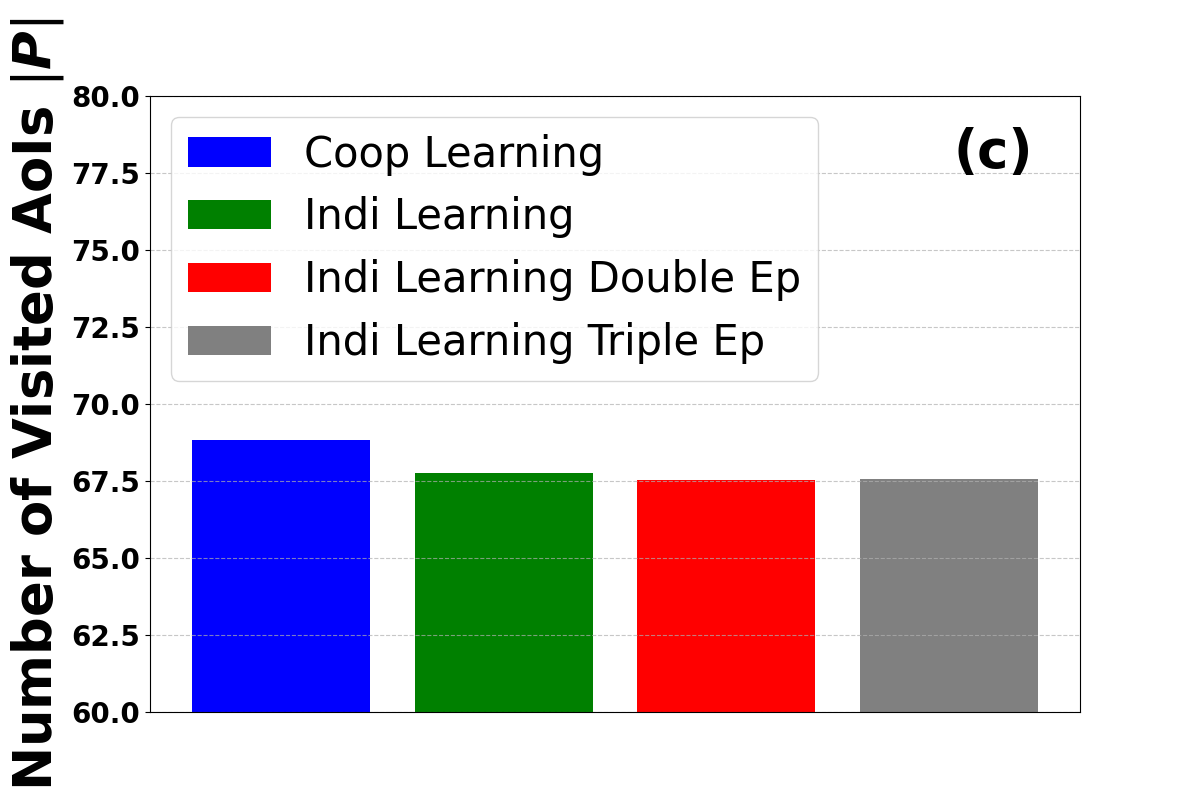
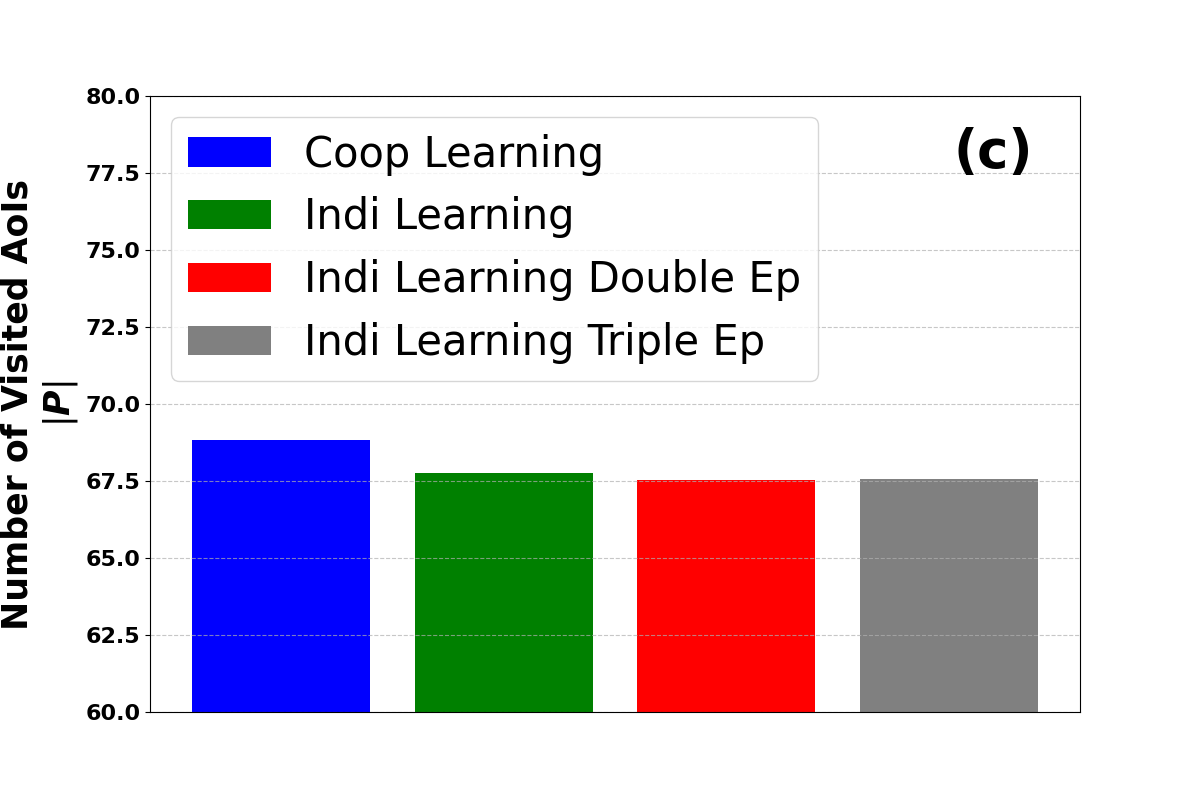
Update Plots

Changed region(s): [[0.0, 0.0, 0.1233, 1.0]]

diff --git a/plot_creation/algorithm comparison.py b/plot_creation/algorithm comparison.py
@@ -53,7 +53,7 @@ def plot_graphs(folder_for_pure_learning= 'plots/pure_learning'):
 	plt.grid(axis='y', linestyle='--', alpha=0.7)
 
 	# Set the y-tick parameters
-	plt.yticks(fontsize=30, fontweight='bold')
+	plt.yticks(fontsize=20, fontweight='bold')
 
 	# Remove the x-axis ticks and labels for a clean look
 	plt.xticks([])
@@ -65,7 +65,7 @@ def plot_graphs(folder_for_pure_learning= 'plots/pure_learning'):
 	plt.grid(axis='y', linestyle='--', alpha=1)
 
 	# Set the y-axis label with appropriate formatting
-	plt.ylabel(r"UAV's Collected Data $\boldsymbol{B}_\boldsymbol{P}$ [MBits]", fontsize=30, fontweight='bold')
+	plt.ylabel(r"UAV's Collected Data $\boldsymbol{B}_\boldsymbol{P}$" '\n' r"[MBits]", fontsize=30, fontweight='bold')
  
 	# Add annotation "(a)" on the top-right of the plot
 	plt.text(0.65, 0.95, '(b)', transform=plt.gca().transAxes, fontsize=38, fontweight='bold', ha='right', va='top')
@@ -121,7 +121,7 @@ def plot_graphs(folder_for_pure_learning= 'plots/pure_learning'):
 	plt.grid(axis='y', linestyle='--', alpha=0.7)
 
 	# Set the y-tick parameters
-	plt.yticks(fontsize=30, fontweight='bold')
+	plt.yticks(fontsize=20, fontweight='bold')
 
 	# Assign y_lim
 	plt.ylim(0.6, 1.1)
@@ -136,7 +136,7 @@ def plot_graphs(folder_for_pure_learning= 'plots/pure_learning'):
 	plt.xticks([])
 
 	# Set the y-axis label
-	plt.ylabel(r"UAV's Consumed Energy $\boldsymbol{E}_\boldsymbol{P}$ [MJoules]", fontsize=27, fontweight='bold')
+	plt.ylabel(r"UAV's Consumed Energy $\boldsymbol{E}_\boldsymbol{P}$" + '\n' + r"[MJoules]", fontsize=27, fontweight='bold')
 
 	# Add a legend
 	plt.legend(bars, algorithms, fontsize=30, loc='upper left')
@@ -186,7 +186,7 @@ def plot_graphs(folder_for_pure_learning= 'plots/pure_learning'):
 	plt.grid(axis='y', linestyle='--', alpha=0.7)
 
 	# Set the y-tick parameters
-	plt.yticks(fontsize=30, fontweight='bold')
+	plt.yticks(fontsize=20, fontweight='bold')
  
 	# Add annotation "(a)" on the top-right of the plot
 	plt.text(0.65, 0.95, '(c)', transform=plt.gca().transAxes, fontsize=38, fontweight='bold', ha='right', va='top')
@@ -201,7 +201,7 @@ def plot_graphs(folder_for_pure_learning= 'plots/pure_learning'):
 	plt.grid(axis='y', linestyle='--', alpha=1)
 
 	# Set the y-axis label
-	plt.ylabel(r'Number of Visited AoIs $|\boldsymbol{P}|$', fontsize=38, fontweight='bold')
+	plt.ylabel(r"Number of Visited AoIs" + '\n' + r"$|\boldsymbol{P}|$", fontsize=28, fontweight='bold')
 
 	# Add a legend
 	plt.legend(bars, algorithms, fontsize=25, loc='upper left')
